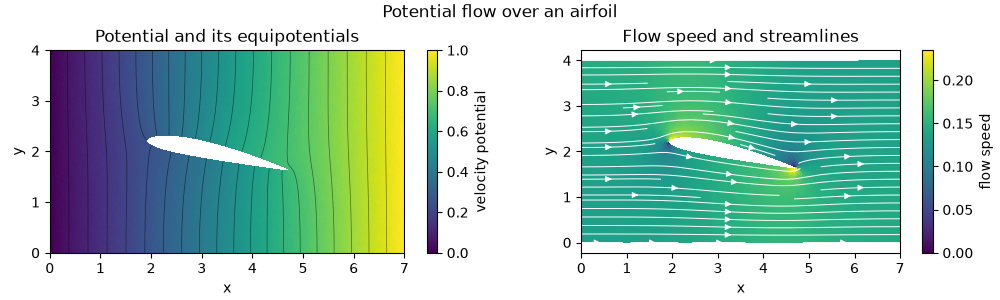
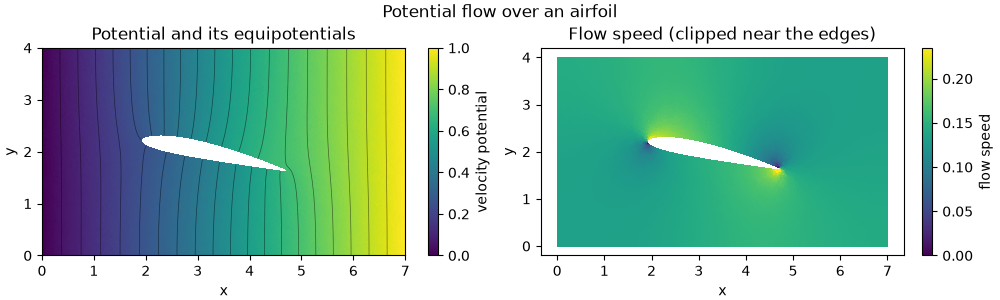
Drop the streamline overlay

diff --git a/examples/solver_demos.py b/examples/solver_demos.py
@@ -96,8 +96,7 @@ def demo_poisson(length=7.0, height=4.0, chord=3.0, angle_of_attack=12.0,
     solver = Solver(mesh, equation, bc, element_type=QuadraticTriangleElement)
     solution = solver.solve()
     # v = grad(phi), read at the nodes so the P2 tessellation draws it smoothly.
-    velocity = solution.nodal_flux()                         # (n_nodes, 2)
-    speed = np.linalg.norm(velocity, axis=1)
+    speed = np.linalg.norm(solution.nodal_flux(), axis=1)   # (n_nodes,)
     # Ideal flow with no Kutta condition predicts a near-singular velocity at the sharp
     # edges; clip it to a high percentile so the flow over the wing stays legible.
     cap = float(np.percentile(speed, 96))
@@ -111,21 +110,18 @@ def demo_poisson(length=7.0, height=4.0, chord=3.0, angle_of_attack=12.0,
     plotter.plot(mesh, solution.u, mode='colored', idx=(0, 0), label='velocity potential',
                  title='Potential and its equipotentials', contour=22, space=solution.space)
     plotter.plot(mesh, speed, mode='colored', idx=(0, 1), label='flow speed', clim=(0.0, cap),
-                 title='Flow speed and streamlines', space=solution.space,
-                 streamlines=velocity)
+                 title='Flow speed (clipped near the edges)', space=solution.space)
     return DemoResult([
         Figure(plotter,
                'Ideal (irrotational, incompressible) flow over a NACA 2412 airfoil at a '
                f'{angle_of_attack:g}-degree angle of attack, generated from the standard '
                'formula rather than a data file. Left: the velocity potential phi (Laplace) '
                'with its equipotentials, which crowd over the upper surface where the flow '
-               'speeds up. Right: the flow speed with its streamlines, faster over the top '
-               'than the bottom, with stagnation near the leading and trailing edges. The '
-               'wing takes no condition at all, which in the weak form is zero flux, so it '
-               'is a streamline the flow parts around. The speed is clipped near the sharp '
-               'edges, where ideal flow with no Kutta condition predicts an unphysical '
-               'velocity spike, and the streamlines wrap the trailing edge for the same '
-               'reason.',
+               'speeds up. Right: the flow speed, faster over the top than the bottom, with '
+               'stagnation near the leading and trailing edges. The wing takes no condition '
+               'at all, which in the weak form is zero flux, so it is a streamline the flow '
+               'parts around. The speed is clipped near the sharp edges, where ideal flow '
+               'with no Kutta condition predicts an unphysical velocity spike.',
                'flow'),
         Figure(conditions,
                'A potential difference across the channel (phi = 0 at the inlet, 1 at the '

diff --git a/fem/plot/helpers.py b/fem/plot/helpers.py
@@ -11,7 +11,7 @@ import matplotlib.pyplot as plt
 import matplotlib.cm as cm
 from matplotlib.colorbar import Colorbar
 from matplotlib.colors import Colormap, LogNorm, Normalize
-from matplotlib.tri import LinearTriInterpolator, Triangulation
+from matplotlib.tri import Triangulation
 
 if TYPE_CHECKING:
     from fem.space import FunctionSpace
@@ -172,29 +172,6 @@ def plot_colored(ax, mesh, values, cbar_info=None, label=None, cmap_name='viridi
         ax.tricontour(triangulation, nodal, levels=contour, colors='black',
                       linewidths=0.5, alpha=0.5)
     return cbar_info, collection
-
-
-def plot_streamlines(ax, mesh, velocity, density=0.8, color='white', linewidth=0.7,
-                     grid=(240, 140)):
-    """Overlay streamlines of a per-vertex vector field `velocity` (n_vertices, 2).
-
-    `streamplot` wants a regular grid, so the field is interpolated linearly onto one
-    spanning the mesh's bounding box, masked outside the mesh (a hole in the domain
-    stays empty). A field given at the nodes of a P2 space is read at its vertices,
-    which lead the node numbering.
-    """
-    velocity = np.asarray(velocity)[:len(mesh.vertices)]
-    triangulation = Triangulation(mesh.vertices[:, 0], mesh.vertices[:, 1],
-                                  triangles=mesh.elements)
-    finder = triangulation.get_trifinder()
-    lower, upper = mesh.vertices.min(axis=0), mesh.vertices.max(axis=0)
-    xs = np.linspace(lower[0], upper[0], grid[0])
-    ys = np.linspace(lower[1], upper[1], grid[1])
-    X, Y = np.meshgrid(xs, ys)
-    U = LinearTriInterpolator(triangulation, velocity[:, 0], trifinder=finder)(X, Y)
-    V = LinearTriInterpolator(triangulation, velocity[:, 1], trifinder=finder)(X, Y)
-    ax.streamplot(X, Y, U, V, density=density, color=color, linewidth=linewidth,
-                  arrowsize=0.9)
 
 
 def face_values(mesh, values):

diff --git a/fem/plot/plotter.py b/fem/plot/plotter.py
@@ -16,7 +16,6 @@ if TYPE_CHECKING:
     from fem.space import FunctionSpace
 
 from fem.plot.helpers import (
-    plot_streamlines,
     plot_mesh,
     plot_boundary,
     plot_highlight,
@@ -128,7 +127,6 @@ class Plotter:
         log_scale: bool = False,
         colorbar: bool = True,
         contour: int | None = None,
-        streamlines: FloatArray | None = None,
         space: 'FunctionSpace | None' = None,
         subdivisions: int = 3,
         warp: 'FloatArray | bool | None' = None,
@@ -152,9 +150,7 @@ class Plotter:
 
         `cmap` selects the colormap (default 'viridis'); `log_scale` uses logarithmic
         normalization. `contour=n` overlays n isolines of the field on the colored
-        panel (the level sets of a scalar, e.g. a potential's equipotentials);
-        `streamlines=v` overlays the streamlines of a per-vertex vector field `v`
-        (a flow's velocity over its speed).
+        panel (the level sets of a scalar, e.g. a potential's equipotentials).
 
         `space` opts a P2 or curved solve into a faithful render: the mesh, colored,
         surface, and arrow panels draw on a `subdivisions`-fine tessellation of each
@@ -200,8 +196,6 @@ class Plotter:
                                              colorbar=colorbar, contour=contour,
                                              space=space, subdivisions=subdivisions, warp=warp)
             self.cbar_infos[idx] = cbar_info
-            if streamlines is not None:
-                plot_streamlines(ax, mesh, streamlines)
         elif mode is PlotMode.SURFACE:
             ax = change_ax_to_ax3d(ax, self.fig, self.axs.shape, idx)
             self.axs[idx] = ax

diff --git a/tests/test_plotter.py b/tests/test_plotter.py
@@ -171,16 +171,6 @@ def test_frames_can_be_sampled_down_to_a_cap(mesh, tmp_path):
     plotter.close()
 
 
-def test_streamlines_overlay_a_colored_panel(mesh):
-    """A uniform per-vertex velocity draws streamlines on the panel, in the mesh."""
-    velocity = np.tile([1.0, 0.0], (len(mesh.vertices), 1))
-    plotter = Plotter()
-    plotter.plot(mesh, np.ones(len(mesh.vertices)), mode='colored', streamlines=velocity)
-    ax = plotter.get_ax((0, 0))
-    assert any(type(c).__name__ == 'LineCollection' for c in ax.collections)
-    plotter.close()
-
-
 def test_save_gif_writes_a_looping_file_with_the_sampled_frames(mesh, tmp_path):
     from PIL import Image
 

diff --git a/README.md b/README.md
@@ -44,10 +44,9 @@ $\phi$ solves Laplace's equation. The obstacle is a NACA 2412 airfoil at a 12-de
 angle of attack. A potential difference drives the flow left to right. The wing
 carries no boundary condition at all, which in the weak form is the natural zero-flux
 condition, so it becomes a streamline the flow parts around. The equipotentials crowd
-over the upper surface, where the flow speeds up, and the streamlines on the right show
-the flow parting around the wing.
+over the upper surface, where the flow speeds up.
 
-<p align="center"><img src="images/poisson.png" width="780" alt="Potential flow: equipotentials, flow speed, and streamlines over a NACA airfoil"></p>
+<p align="center"><img src="images/poisson.png" width="780" alt="Potential flow: equipotentials and flow speed over a NACA airfoil"></p>
 
 ### Heat equation
 
